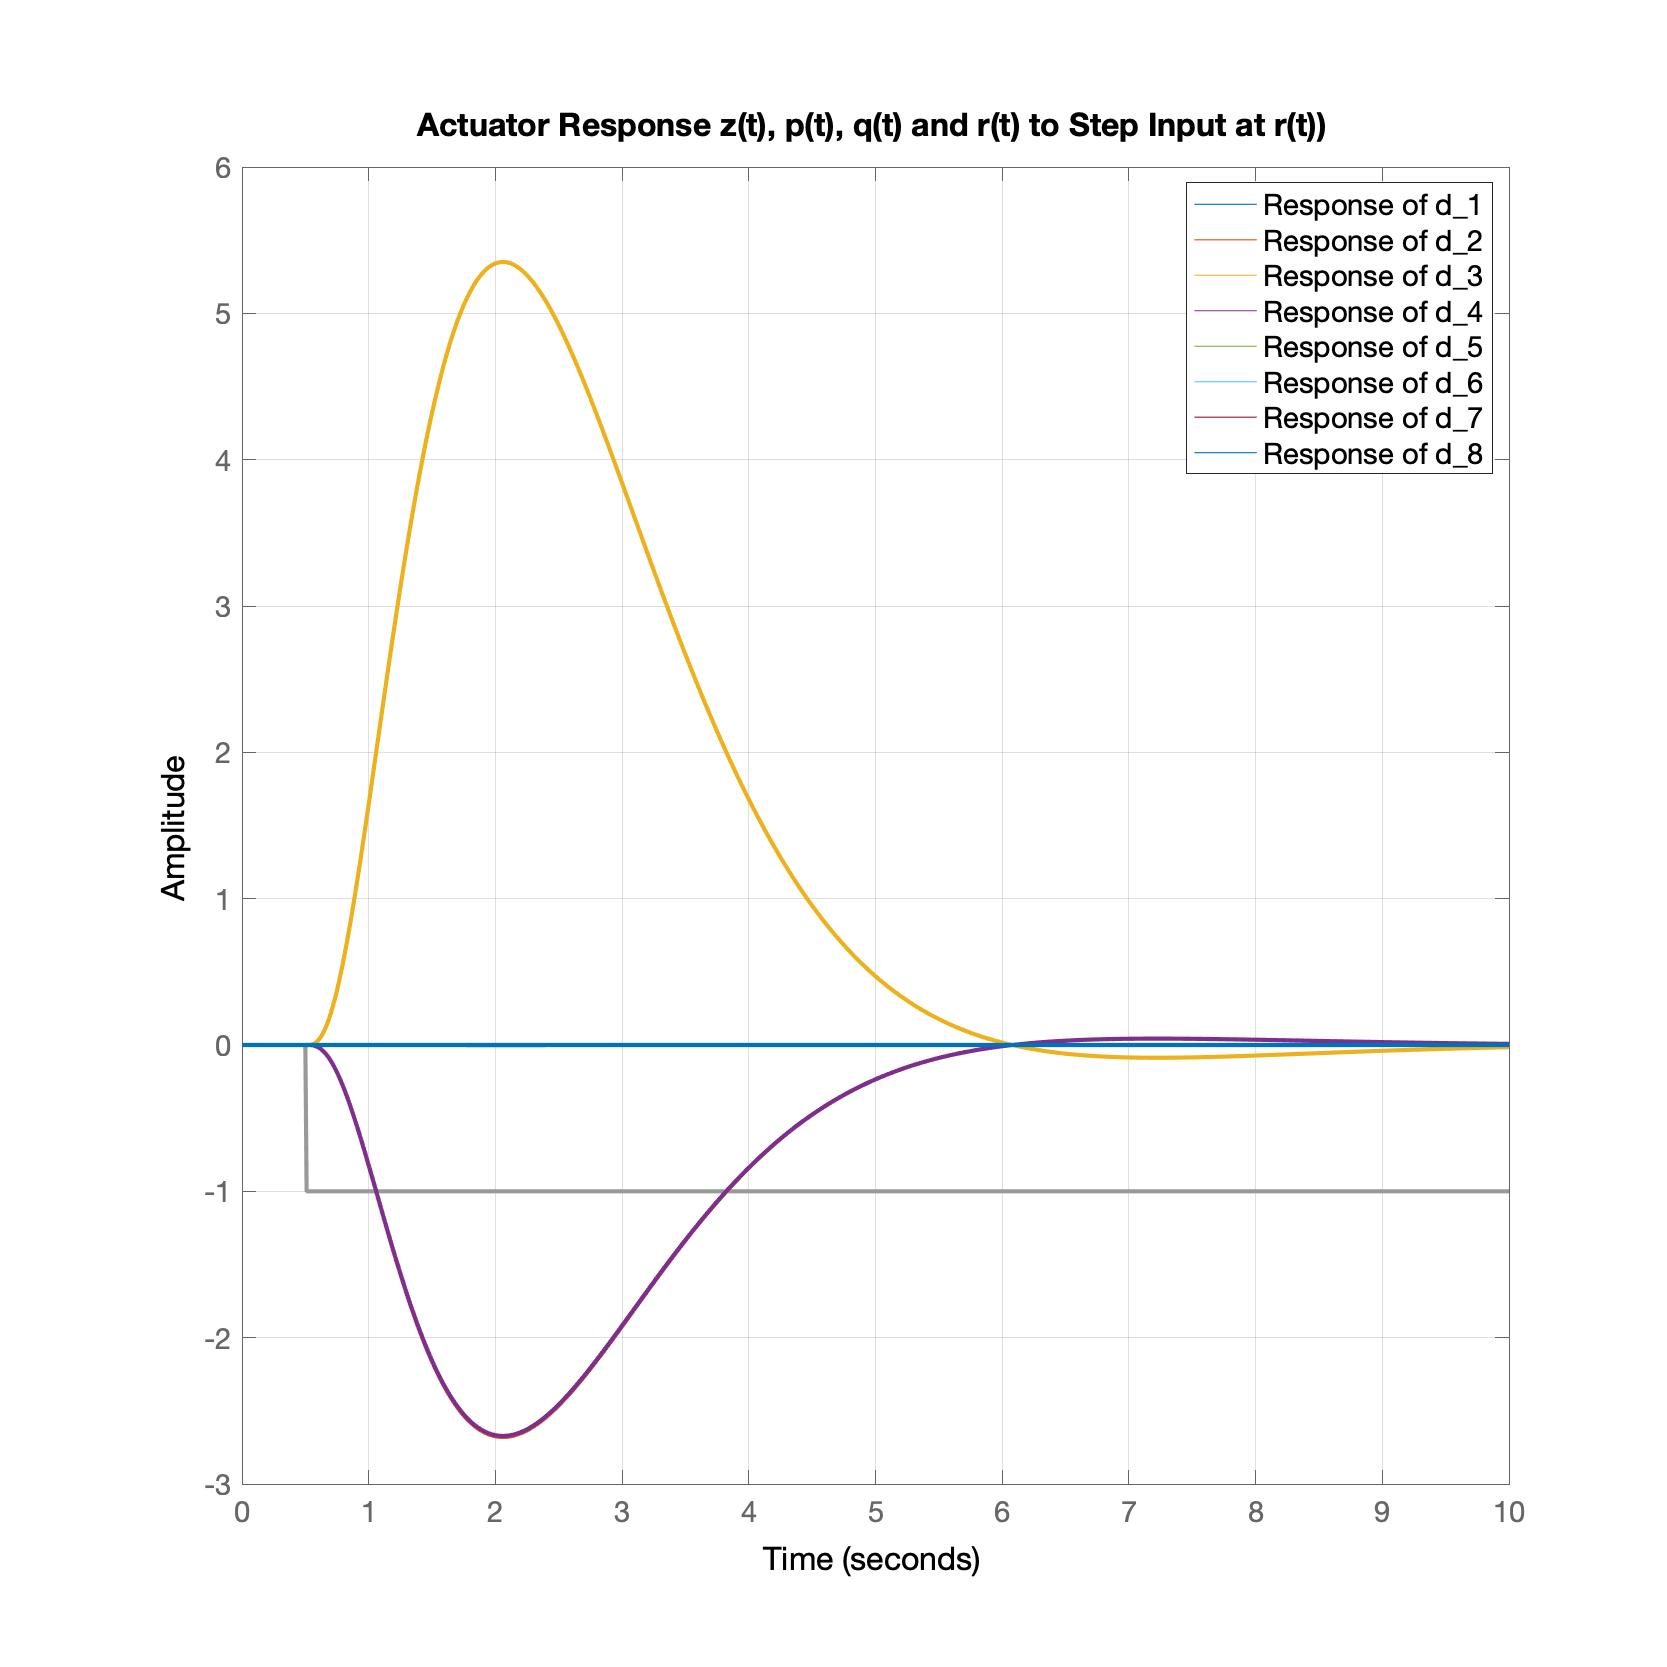
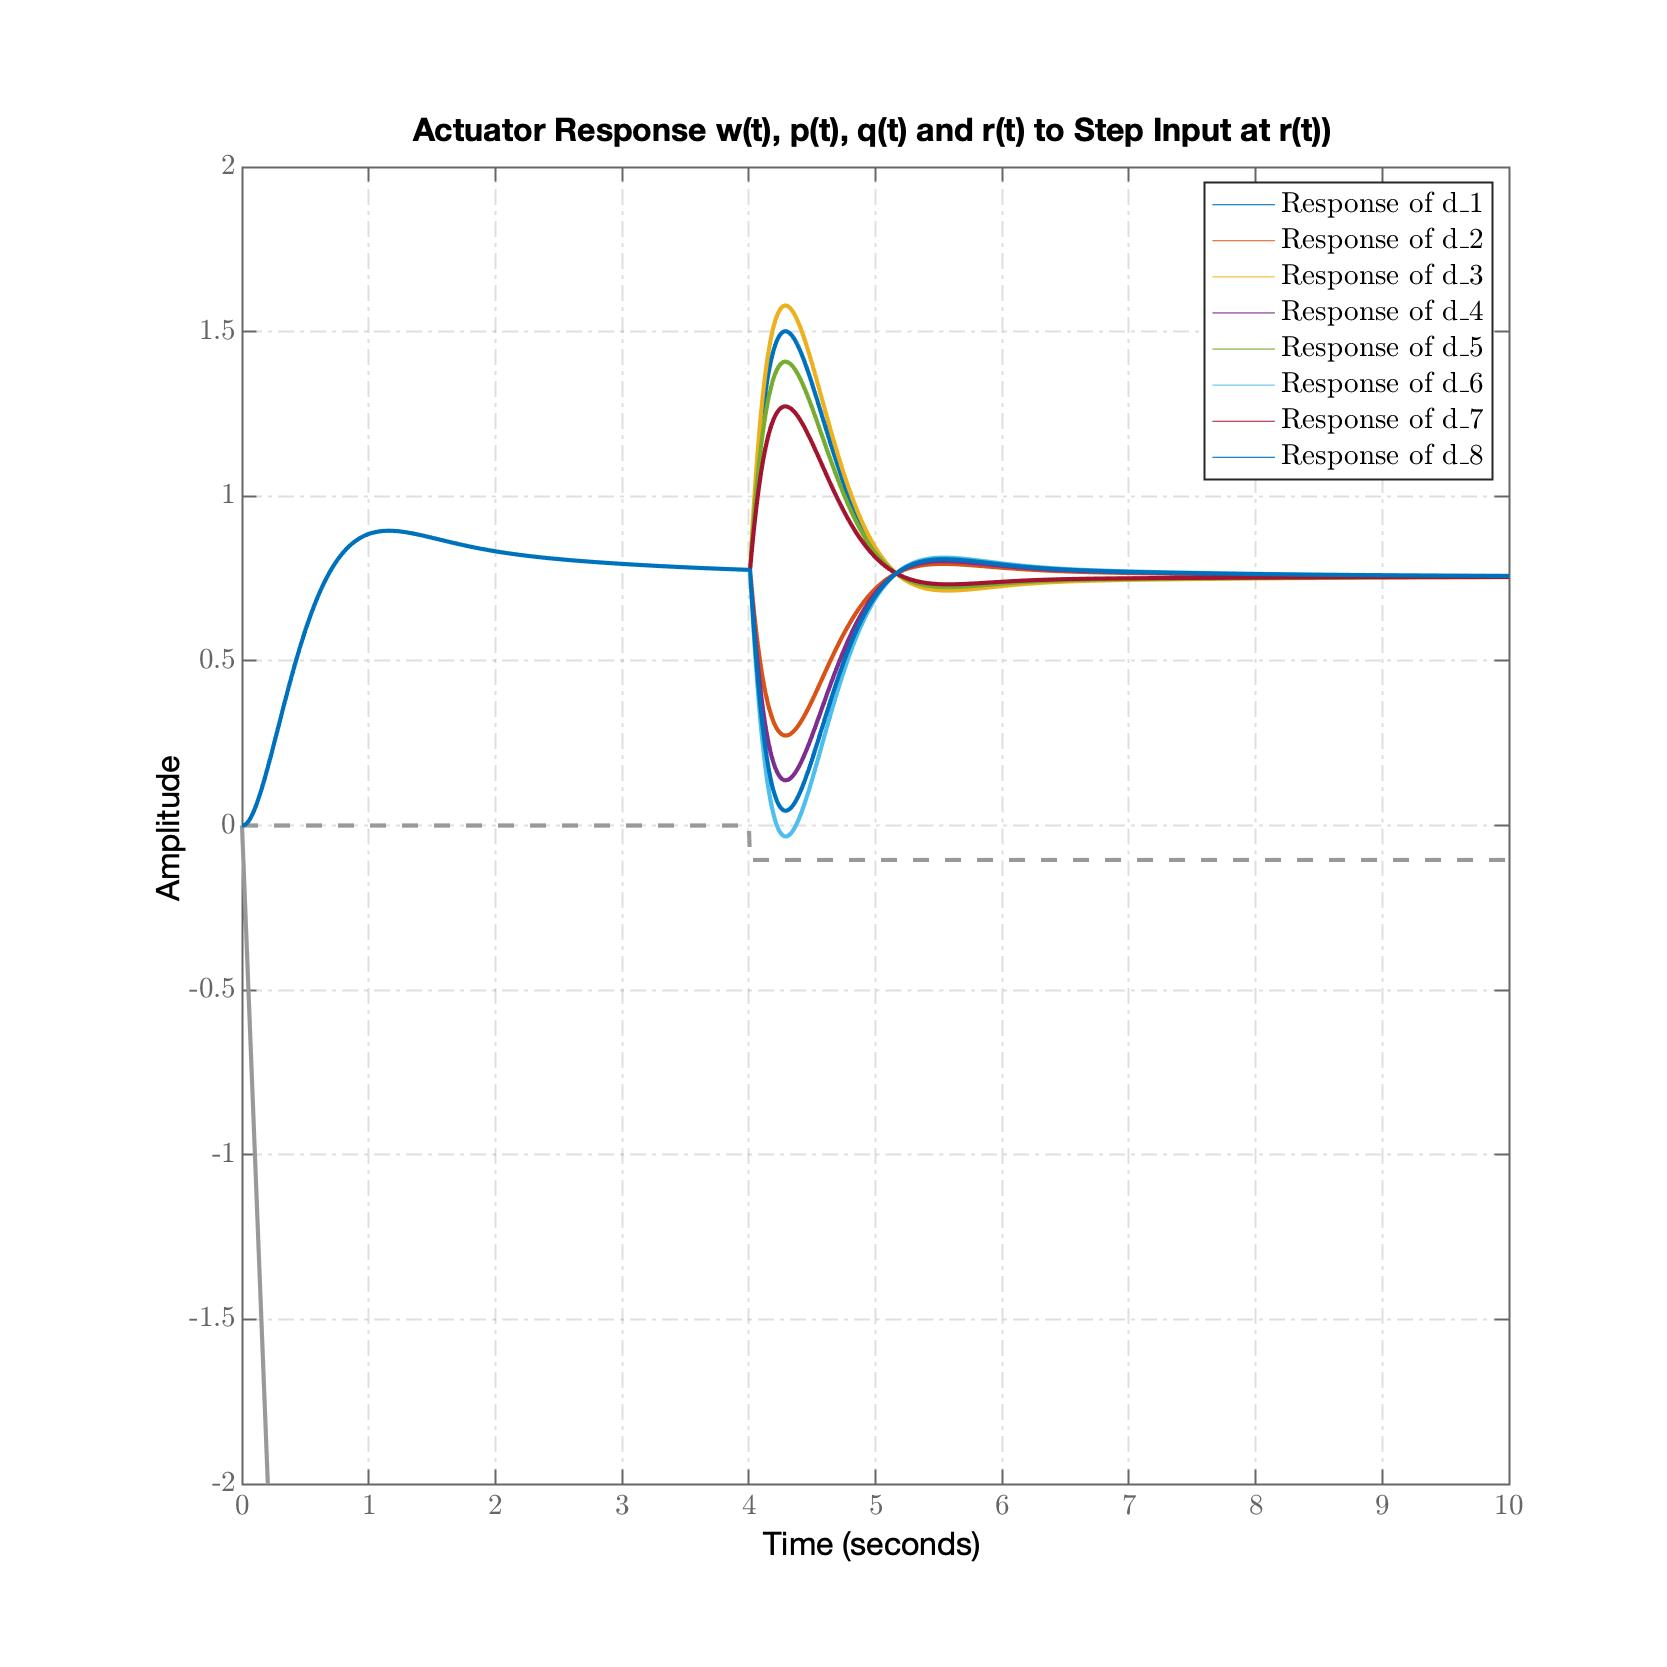
Good Results with shaping TY
TVG 04.22.2021

diff --git a/MATLAB_Control_Design/Jiffy_Jerboa_Hover/JJ_Hover_Youla_4DOF_Ctrlalloc.m b/MATLAB_Control_Design/Jiffy_Jerboa_Hover/JJ_Hover_Youla_4DOF_Ctrlalloc.m
@@ -56,7 +56,17 @@ d = 1 / simplify(det(SI - A));
 Gp_sym = p .* d;
 TFM_tf = minreal(zpk(sym2tf(Gp_sym)));
 
-[UL, Mp, UR] = MNsmithmcmillanForm(A, vpa(B, 4), CT.', D);
+% Control allocation
+% Leave offset vector zero for now
+% c = zeros(8,1);
+Gps = pinv(Gp_sym);
+Gpdes = diag([1/s, 1/s, 1/s, 1/s]);
+Ctrlalloc_sym = double(Gps*Gpdes);
+p_alloc = p*Ctrlalloc_sym;
+
+Gp_sym = Gp_sym*Ctrlalloc_sym;
+
+[UL, Mp, UR] = MNsmithmcmillanForm(p_alloc, d);
 
 %% Come up with a controller using Youla Parametrization
 
@@ -64,28 +74,30 @@ K11 = Mp(1, 1) * s^2;
 
 wn = 3.75;
 K = wn^2 * K11;
-zet = sqrt(2);
+zet = 0.779703;
 Tz1 = 2;
-Tz2 = 3.5;
-Tp2 = 1;
-Tp3 = 1;
+Tz2 = 2;
+Tp2 = 2;
+% Tp3 = 1;
 
 syms T11(s) Tp1
-T11(s) = K/K11*((Tz1*s+1)*(Tz2*s+1))/((s^2+2*zet*wn*s+wn^2)*(Tp1*s+1)*(Tp2*s+1));
+T11(s) = K/K11*((Tz1*s+1))/((s^2+2*zet*wn*s+wn^2)*(Tp1*s+1));
 % T11(s) = K / K11 * (Tz1*s+1) / ((s^2 + 2 * zet * wn * s + wn^2));
 
 % Check interpolation conditions:
-fprintf("T11(s=0) = %f", subs(T11, s, 0))
-Tp1 = double(solve(simplify(subs(diff(T11, s), s, 0)) == 0, Tp1))
+fprintf("T11(s=0) = %f \n", subs(T11, s, 0))
+Tp1 = double(solve(simplify(subs(diff(T11, s), s, 0)) == 0, Tp1));
+Tp1
 
-T11 = K / K11 * ((Tz1 * s + 1) * (Tz2 * s + 1)) / ((s^2 + 2 * zet * wn * s + wn^2) * (Tp1 * s + 1) * (Tp2 * s + 1)* (Tp2 * s + 1)^);
+T11 = K/K11*((Tz1*s+1))/((s^2+2*zet*wn*s+wn^2)*(Tp1*s+1));
+zpk(sym2tf(T11))
 % T11 = K / K11 * 1 / (s * (s^2 + 2 * zet * wn * s + wn^2));
 
 T22 = T11;
 T33 = T11;
 T44 = T11;
 
-MY = sym(zeros(8, 4));
+MY = sym(zeros(4));
 MY(1, 1) = T11 / Mp(1, 1);
 MY(2, 2) = T22 / Mp(2, 2);
 MY(3, 3) = T33 / Mp(3, 3);
@@ -94,6 +106,8 @@ MY(4, 4) = T44 / Mp(4, 4);
 Youla = UR * MY * UL;
 
 Youla_tf = minreal(sym2tf(Youla));
+
+Youlaalloc_tf = Ctrlalloc_sym*Youla_tf;
 
 Gc_sym = simplify(Youla*(eye(size(Gp_sym * Youla)) - Gp_sym * Youla)^-1);
 Gc_tf = zpk(sym2tf(Gc_sym));
@@ -128,7 +142,7 @@ t = 0:0.01:10;
 figure('Position', [0, 0, 800, 800])
 hold on
 u = zeros(size(t));
-u(t > 0.5) = -10 * ones();
+u(t > 0.5) = -9.81*t(t > 0.5); % Hover 
 lsim(Ty_tf(1, 1), u, t)
 lsim(Ty_tf(2, 1), u, t)
 lsim(Ty_tf(3, 1), u, t)
@@ -136,35 +150,35 @@ lsim(Ty_tf(4, 1), u, t)
 
 
 grid on
-legend('Response of d_1', 'Response of d_2', 'Response of d_3', 'Response of d_4', 'Response of d_5', 'Response of d_6', 'Response of d_7', 'Response of d_8')
-title('Sensor Response z(t), p(t), q(t) and r(t) to Step Input at z(t))', 'FontSize', 18);
+legend('Response of w(t)', 'Response of p(t)', 'Response of q(t)', 'Response of r(t)')
+title('Sensor Response w(t), p(t), q(t) and r(t) to Step Input at w(t))', 'FontSize', 18);
 
 set(findall(gcf, 'type', 'line'), 'linewidth', 2);
 set(findall(gcf, 'type', 'axes'), 'fontsize', 14);
 set(findall(gcf, 'type', 'legend'), 'fontsize', 14);
+ylim([-2,2])
 saveas(gcf, "./Figures/zstep_sensor_resp.jpg")
 
 %% Actuator Response to First Reference Input (Altitude Step)
 figure('Position', [0, 0, 800, 800])
 hold on
-u = zeros(size(t));
-u(t > 0.5) = -ones();
-lsim(Youla_tf(1, 1), u, t)
-lsim(Youla_tf(2, 1), u, t)
-lsim(Youla_tf(3, 1), u, t)
-lsim(Youla_tf(4, 1), u, t)
-lsim(Youla_tf(5, 1), u, t)
-lsim(Youla_tf(6, 1), u, t)
-lsim(Youla_tf(7, 1), u, t)
-lsim(Youla_tf(8, 1), u, t)
+lsim(Youlaalloc_tf(1, 1), u, t)
+lsim(Youlaalloc_tf(2, 1), u, t)
+lsim(Youlaalloc_tf(3, 1), u, t)
+lsim(Youlaalloc_tf(4, 1), u, t)
+lsim(Youlaalloc_tf(5, 1), u, t)
+lsim(Youlaalloc_tf(6, 1), u, t)
+lsim(Youlaalloc_tf(7, 1), u, t)
+lsim(Youlaalloc_tf(8, 1), u, t)
 
 grid on
 legend('Response of d_1', 'Response of d_2', 'Response of d_3', 'Response of d_4', 'Response of d_5', 'Response of d_6', 'Response of d_7', 'Response of d_8')
-title('Actuator Response z(t), p(t), q(t) and r(t) to Step Input at z(t))', 'FontSize', 18);
+title('Actuator Response w(t), p(t), q(t) and r(t) to Step Input at w(t))', 'FontSize', 18);
 
 set(findall(gcf, 'type', 'line'), 'linewidth', 2);
 set(findall(gcf, 'type', 'axes'), 'fontsize', 14);
 set(findall(gcf, 'type', 'legend'), 'fontsize', 14);
+ylim([-2,2])
 saveas(gcf, "./Figures/zstep_sensor_resp.jpg")
 
 %% Output Step Responses to First Reference Input (Yaw Step)
@@ -172,42 +186,46 @@ t = 0:0.01:10;
 
 figure('Position', [0, 0, 800, 800])
 hold on
-u = zeros(size(t));
-u(t > 0.5) = ones();
-lsim(Ty_tf(1, 4), u, t)
-lsim(Ty_tf(2, 4), u, t)
-lsim(Ty_tf(3, 4), u, t)
-lsim(Ty_tf(4, 4), u, t)
+u = zeros(length(t),2);
+u(:,1) = -9.81*t; % Hover 
+u(t > 4,2) = -(360/60)*pi/180; % 60 seconds for full yaw rotation
+ind = [1,4];
+
+lsim(Ty_tf(1, ind), u, t)
+lsim(Ty_tf(2, ind), u, t)
+lsim(Ty_tf(3, ind), u, t)
+lsim(Ty_tf(4, ind), u, t)
+
 
 
 grid on
-legend('Response of d_1', 'Response of d_2', 'Response of d_3', 'Response of d_4', 'Response of d_5', 'Response of d_6', 'Response of d_7', 'Response of d_8')
-title('Sensor Response z(t), p(t), q(t) and r(t) to Step Input at r(t))', 'FontSize', 18);
+legend('Response of w(t)', 'Response of p(t)', 'Response of q(t)', 'Response of r(t)')
+title('Sensor Response w(t), p(t), q(t) and r(t) to Step Input at r(t))', 'FontSize', 18);
 
 set(findall(gcf, 'type', 'line'), 'linewidth', 2);
 set(findall(gcf, 'type', 'axes'), 'fontsize', 14);
 set(findall(gcf, 'type', 'legend'), 'fontsize', 14);
+ylim([-2,2])
 saveas(gcf, "./Figures/rstep_sensor_resp.jpg")
 
-%% Actuator Response to First Reference Input (Altitude Step)
+%% Actuator Response to Yaw Step
 figure('Position', [0, 0, 800, 800])
 hold on
-u = zeros(size(t));
-u(t > 0.5) = -ones();
-lsim(Youla_tf(1, 4), u, t)
-lsim(Youla_tf(2, 4), u, t)
-lsim(Youla_tf(3, 4), u, t)
-lsim(Youla_tf(4, 4), u, t)
-lsim(Youla_tf(5, 4), u, t)
-lsim(Youla_tf(6, 4), u, t)
-lsim(Youla_tf(7, 4), u, t)
-lsim(Youla_tf(8, 4), u, t)
+lsim(Youlaalloc_tf(1, ind), u, t)
+lsim(Youlaalloc_tf(2, ind), u, t)
+lsim(Youlaalloc_tf(3, ind), u, t)
+lsim(Youlaalloc_tf(4, ind), u, t)
+lsim(Youlaalloc_tf(5, ind), u, t)
+lsim(Youlaalloc_tf(6, ind), u, t)
+lsim(Youlaalloc_tf(7, ind), u, t)
+lsim(Youlaalloc_tf(8, ind), u, t)
 
 grid on
 legend('Response of d_1', 'Response of d_2', 'Response of d_3', 'Response of d_4', 'Response of d_5', 'Response of d_6', 'Response of d_7', 'Response of d_8')
-title('Actuator Response z(t), p(t), q(t) and r(t) to Step Input at r(t))', 'FontSize', 18);
+title('Actuator Response w(t), p(t), q(t) and r(t) to Step Input at r(t))', 'FontSize', 18);
 
 set(findall(gcf, 'type', 'line'), 'linewidth', 2);
 set(findall(gcf, 'type', 'axes'), 'fontsize', 14);
 set(findall(gcf, 'type', 'legend'), 'fontsize', 14);
+ylim([-2,2])
 saveas(gcf, "./Figures/rstep_sensor_resp.jpg")

diff --git a/MATLAB_Control_Design/Jiffy_Jerboa_Hover/JJ_Hover_State_Space_4DOF.m b/MATLAB_Control_Design/Jiffy_Jerboa_Hover/JJ_Hover_State_Space_4DOF.m
@@ -56,7 +56,7 @@ E = [1, 0, 0, 0, 0, 0, 0, 0; ...
     0, 0, 0, -Ixz / Izz, 0, 0, 0, 1];
 
 A = [0, 1, 0, 0, 0, 0, 0, 0; ...
-    0, 0, -g * s(Phi0) * c(The0), -V0, g * s(The0) * c(Phi0), U0, 0, 0; ...
+    0, 0, 0, -V0, -g*s(The0), U0, 0, 0; ...
     0, 0, 0, 1, 0, 0, 0, 0; ...
     0, 0, 0, 0, 0, 0, 0, 0; ...
     0, 0, 0, 0, 0, 1, 0, 0; ...
@@ -78,7 +78,7 @@ B(8, :) = 1 / Izz * [-Qmax, Qmax, -Qmax, Qmax, -Qmax, Qmax, -Qmax, Qmax];
 % Note that accelerations (last three rows of C and D)
 % are left out as to avoid dealing with H*xdot which affects accelerations
 
-C = [1, 0, 0, 0, 0, 0, 0, 0; ...
+C = [0, 1, 0, 0, 0, 0, 0, 0; ...
     0, 0, 0, 1, 0, 0, 0, 0; ...
     0, 0, 0, 0, 0, 1, 0, 0; ...
     0, 0, 0, 0, 0, 0, 0, 1];
